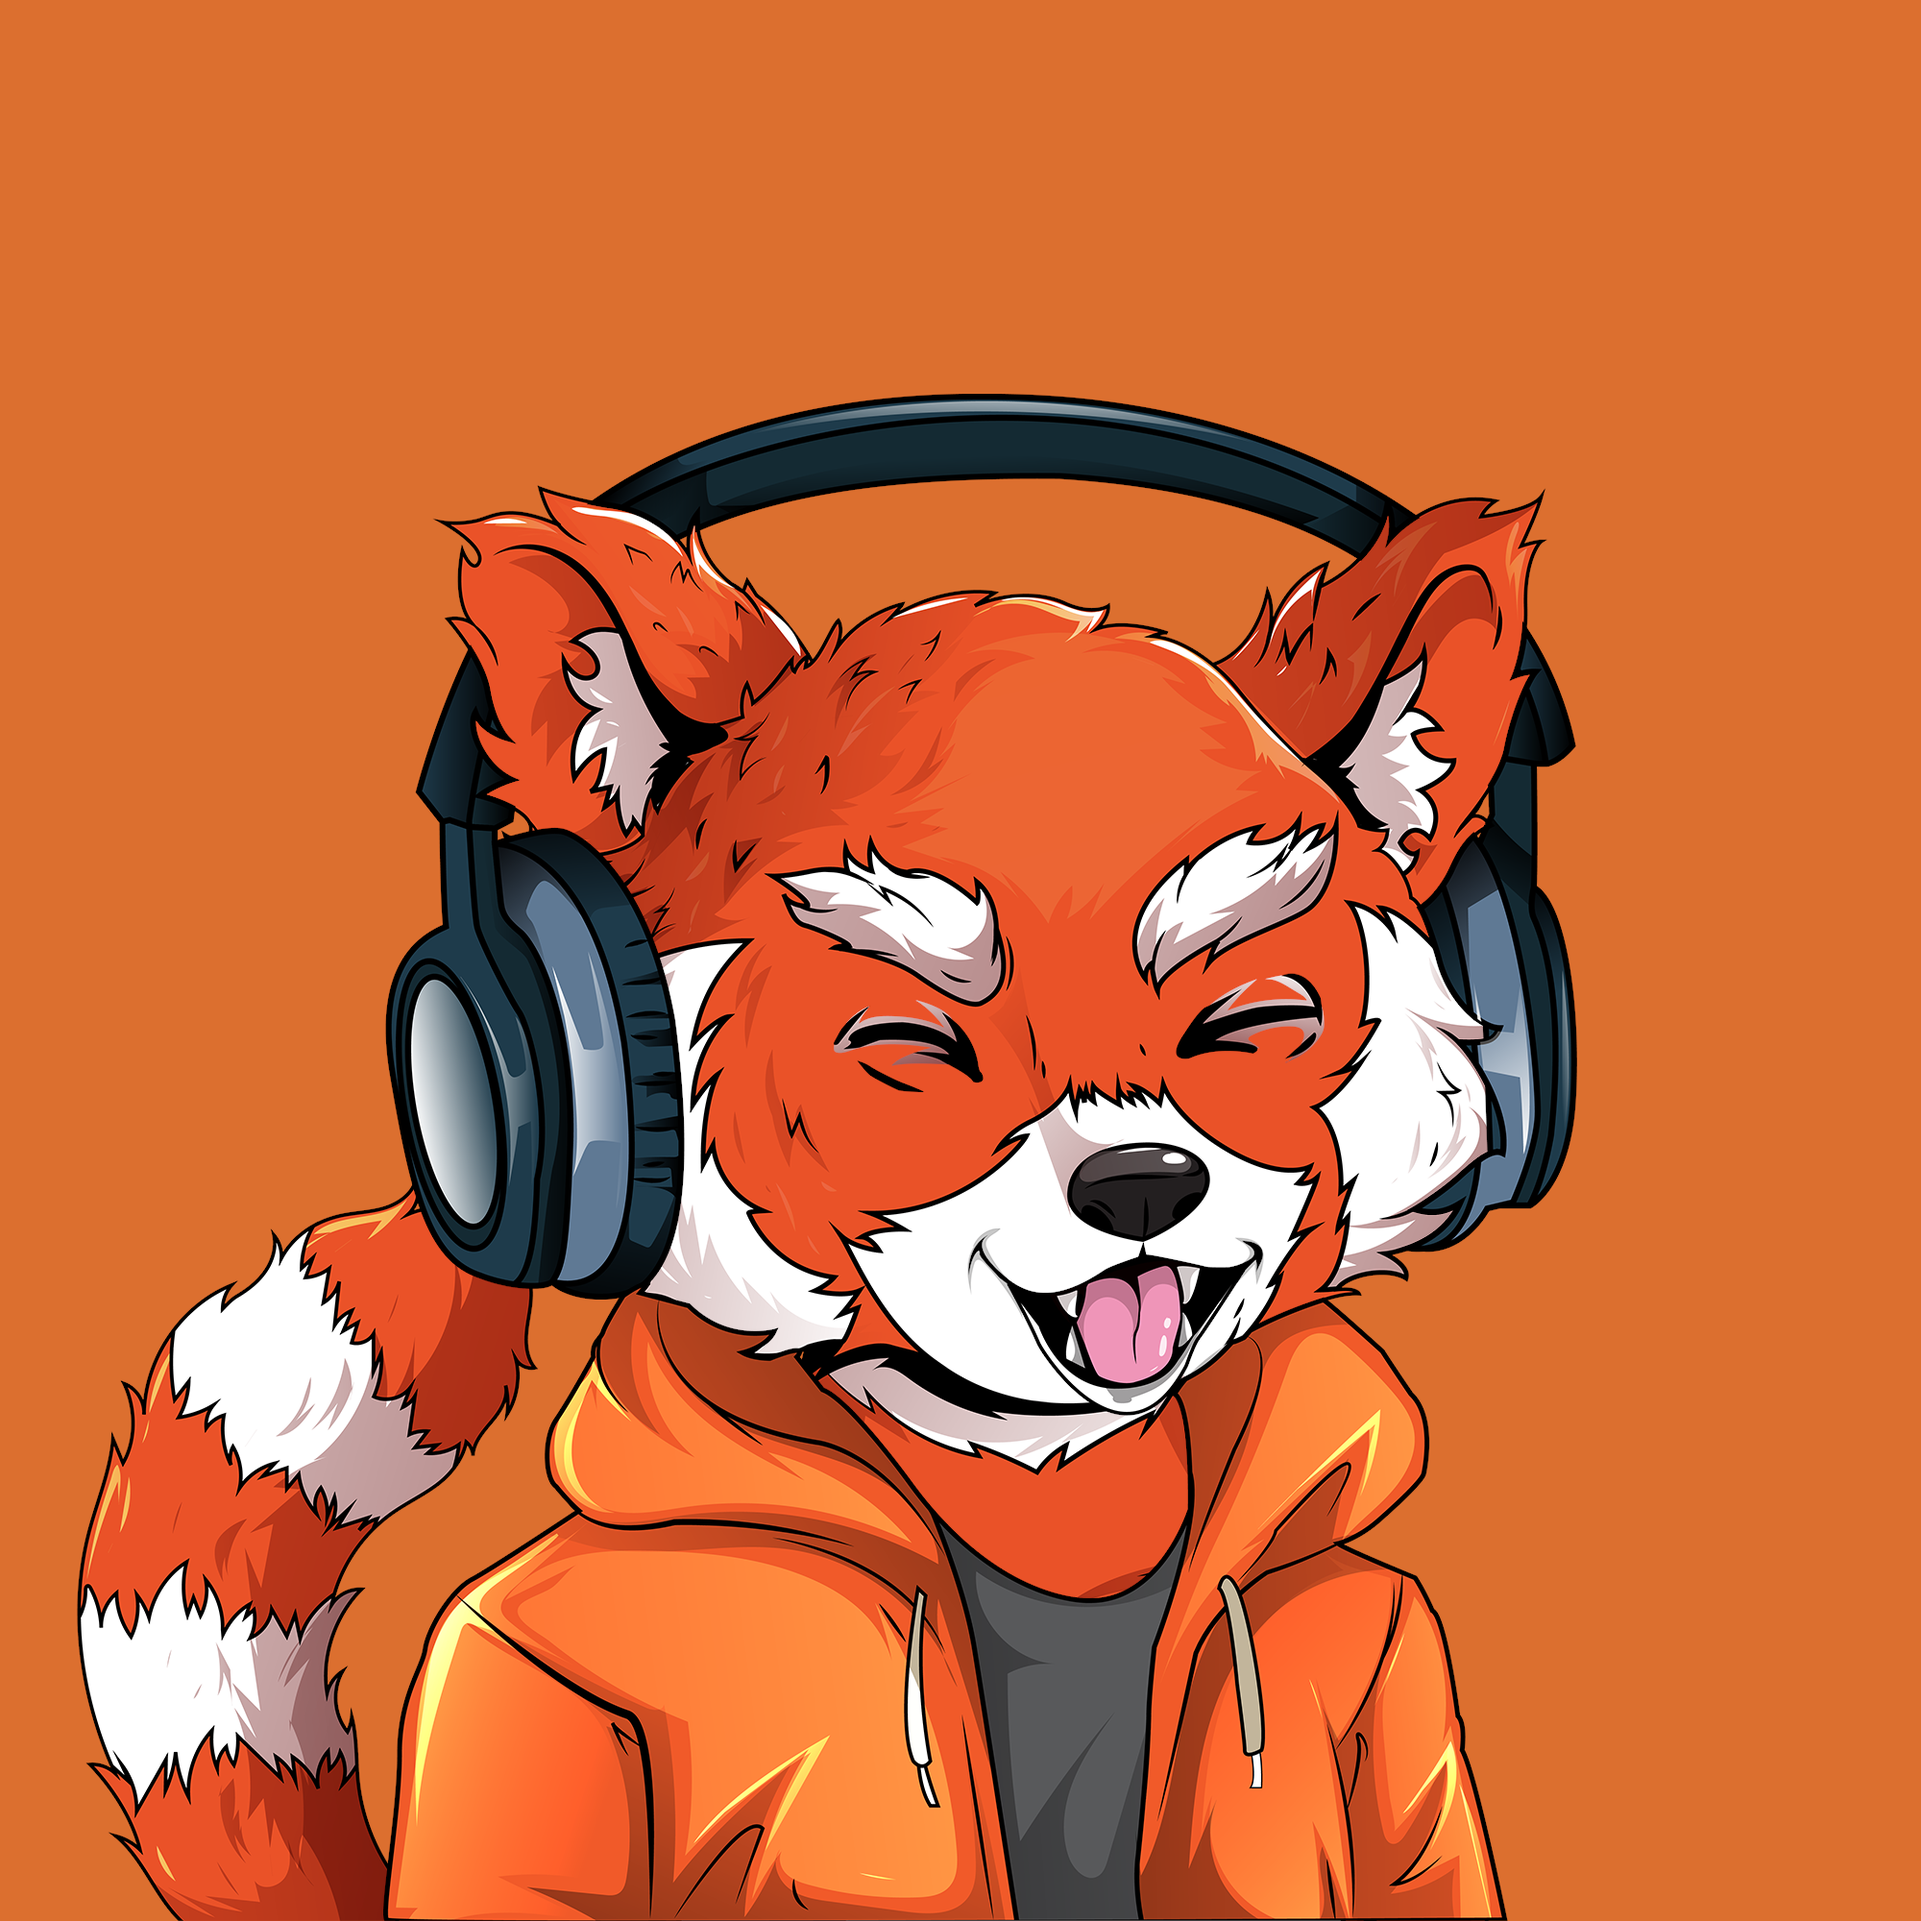
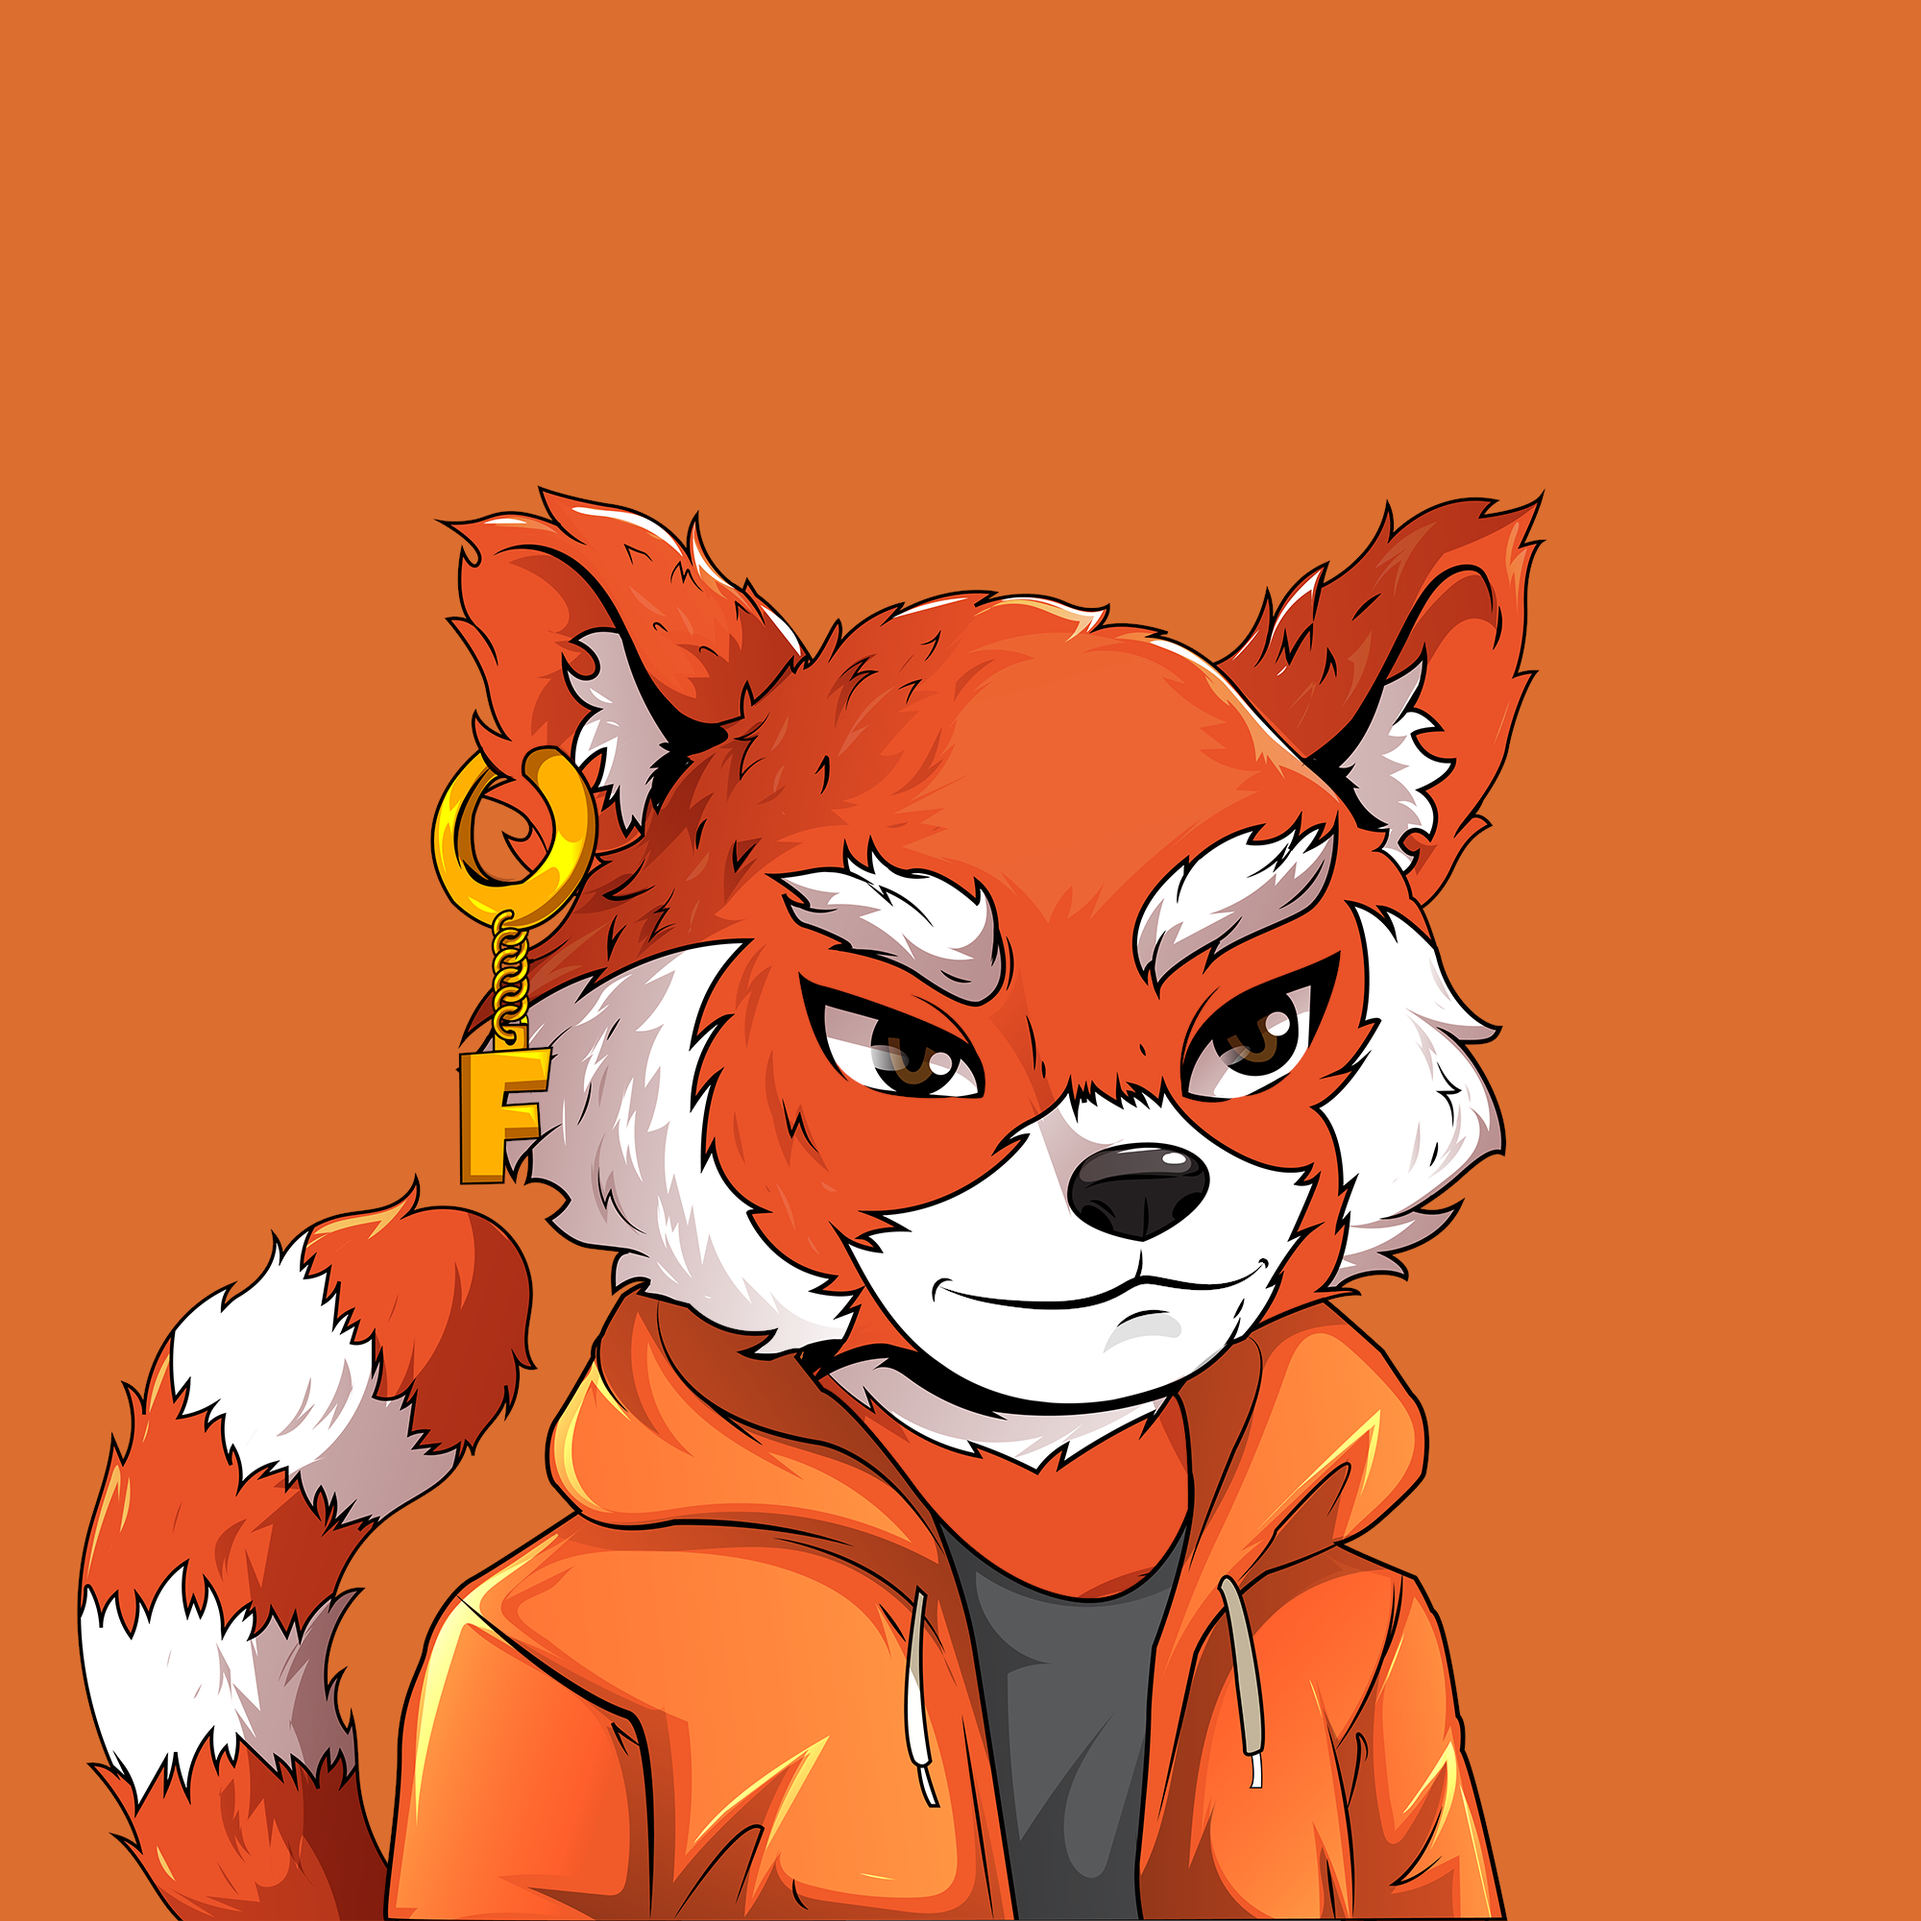
new cimbinaisons

diff --git a/jar/src/main/java/com/foxyclan/jar/NftService.java b/jar/src/main/java/com/foxyclan/jar/NftService.java
@@ -137,6 +137,14 @@ public class NftService {
             else if(EyesHeadMouth != null) {
                 g.drawImage(EyesHeadMouth, 0, 0, null);
             }
+            if(Head.equals("04")) {
+                List<String> validMouths = Arrays.asList("02", "03", "04", "05", "06");
+                if (validMouths.contains(Mouth)) {
+                    g.drawImage(eyes, 0, 0, null);
+                    g.drawImage(headCovering, 0, 0, null);
+                    g.drawImage(mouth, 0, 0, null);
+                }
+            }
             else {
                 g.drawImage(eyes, 0, 0, null);
                 g.drawImage(mouth, 0, 0, null);

diff --git a/ToDo.md b/ToDo.md
@@ -63,3 +63,7 @@ actual :
 
 TRAITS :
 head : jusqu'a 3 OK
+
+
+head 4
+mouth 5
